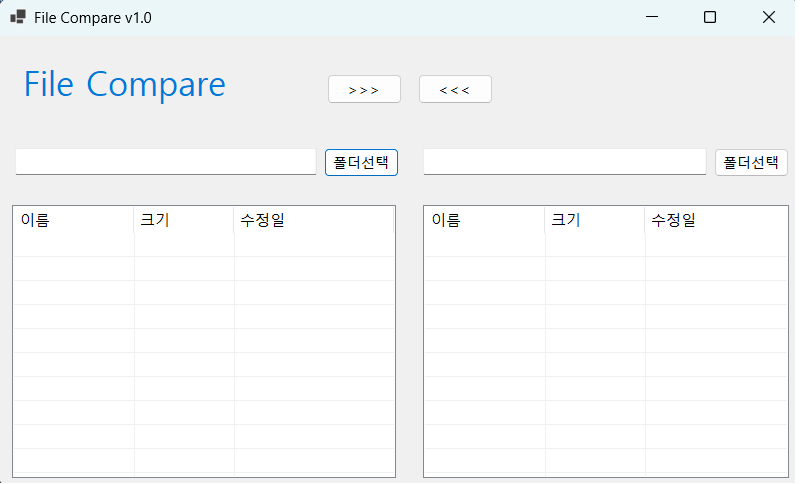
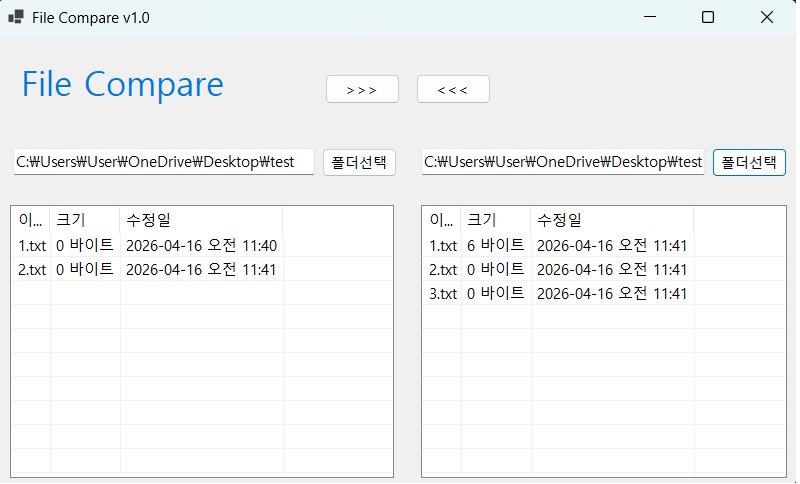
과제1 코딩과 테스트 완료 선택한 폴더의 내용을 ListView에 표시하는 기능을 추가

diff --git a/Form1.cs b/Form1.cs
@@ -1,3 +1,6 @@
+using static System.Windows.Forms.VisualStyles.VisualStyleElement;
+using ListView = System.Windows.Forms.ListView;
+
 namespace FileCompare
 {
     public partial class Form1 : Form
@@ -6,7 +9,57 @@ namespace FileCompare
         {
             InitializeComponent();
         }
+        private void PopulateListView(ListView lv, string folderPath)
+        {
+            lv.BeginUpdate();
+            lv.Items.Clear();
+            try
+            { // 폴더(디렉터리) 먼저추가
+                var dirs = Directory.EnumerateDirectories(folderPath)
+                .Select(p => new DirectoryInfo(p))
+                .OrderBy(d => d.Name);
+                foreach (var d in dirs)
+                {
+                    var item = new ListViewItem(d.Name);
+                    item.SubItems.Add("<DIR>");
+                    item.SubItems.Add(d.LastWriteTime.ToString("g"));
+                    lv.Items.Add(item);
+                }
+                // 파일추가
+                var files = Directory.EnumerateFiles(folderPath)
+                .Select(p => new FileInfo(p))
+                .OrderBy(f => f.Name);
+                foreach (var f in files)
+                {
+                    var item = new ListViewItem(f.Name);
+                    item.SubItems.Add(f.Length.ToString("N0") + " 바이트");
+                    item.SubItems.Add(f.LastWriteTime.ToString("g"));
+                    lv.Items.Add(item);
+                }
+                // 컬럼너비자동조정(컨텐츠기준)
+                for (int i = 0; i < lv.Columns.Count; i++)
+                {
+                    lv.AutoResizeColumn(i,
+                    ColumnHeaderAutoResizeStyle.ColumnContent);
+                }
+            }
+            catch (DirectoryNotFoundException)
+            {
+                MessageBox.Show(this, "폴더를찾을수없습니다.", "오류",
+                MessageBoxButtons.OK, MessageBoxIcon.Error);
+            }
+            catch (IOException ex)
+            {
+                MessageBox.Show(this, "입출력오류: " + ex.Message, "오류",
+                MessageBoxButtons.OK, MessageBoxIcon.Error);
+            }
+            finally
+            {
+                lv.EndUpdate();
+            }
+        }
 
+        
         private void panel5_Paint(object sender, PaintEventArgs e)
         {
 
@@ -36,6 +89,7 @@ namespace FileCompare
                 if (dlg.ShowDialog() == DialogResult.OK)
                 {
                     txtLeftDir.Text = dlg.SelectedPath;
+                    PopulateListView(lvwLeftDir, dlg.SelectedPath);
                 }
 
             }
@@ -55,6 +109,7 @@ namespace FileCompare
                 if (dlg.ShowDialog() == DialogResult.OK)
                 {
                     txtRightDir.Text = dlg.SelectedPath;
+                    PopulateListView(lvwRightDir, dlg.SelectedPath);
                 }
 
             }

diff --git a/README.md b/README.md
@@ -14,6 +14,7 @@
 - 구현한 내용 (위 그림 참조)
 	- UI 설계 : 앱에서 사용할 기본적인 UI를 설계하고 추가
 	- 폴더선택 버튼 : 폴더선택 버튼을 눌러 폴더를 고르고, 해당 폴더가 TextBox에 표시되도록 기능 추가
+	- ListView 업데이트 : 선택한 폴더의 내용을 ListView에 표시하도록 기능 추가
 ## 실행 화면 (과제2)
 - 2단계 코드의 실행 스크린샷
 (여기에 이미지 삽입)
